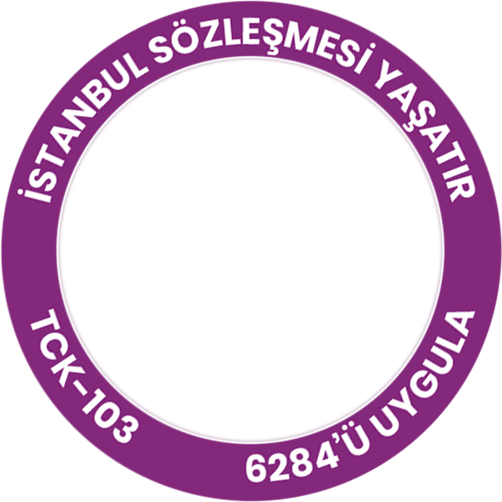
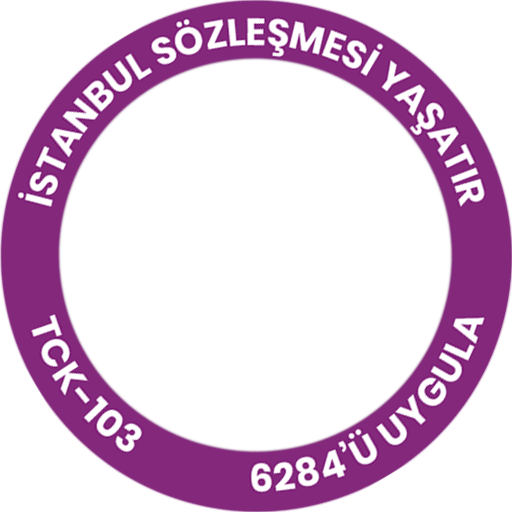
images updated

diff --git a/app/Http/Controllers/Crop.php b/app/Http/Controllers/Crop.php
@@ -8,7 +8,7 @@ use Illuminate\Support\Facades\Response;
 
 class Crop extends Controller
 {
-	public $frameWidth = 502;
+	public $frameWidth = 512;
 
 	public function Image(Request $request)
 	{
